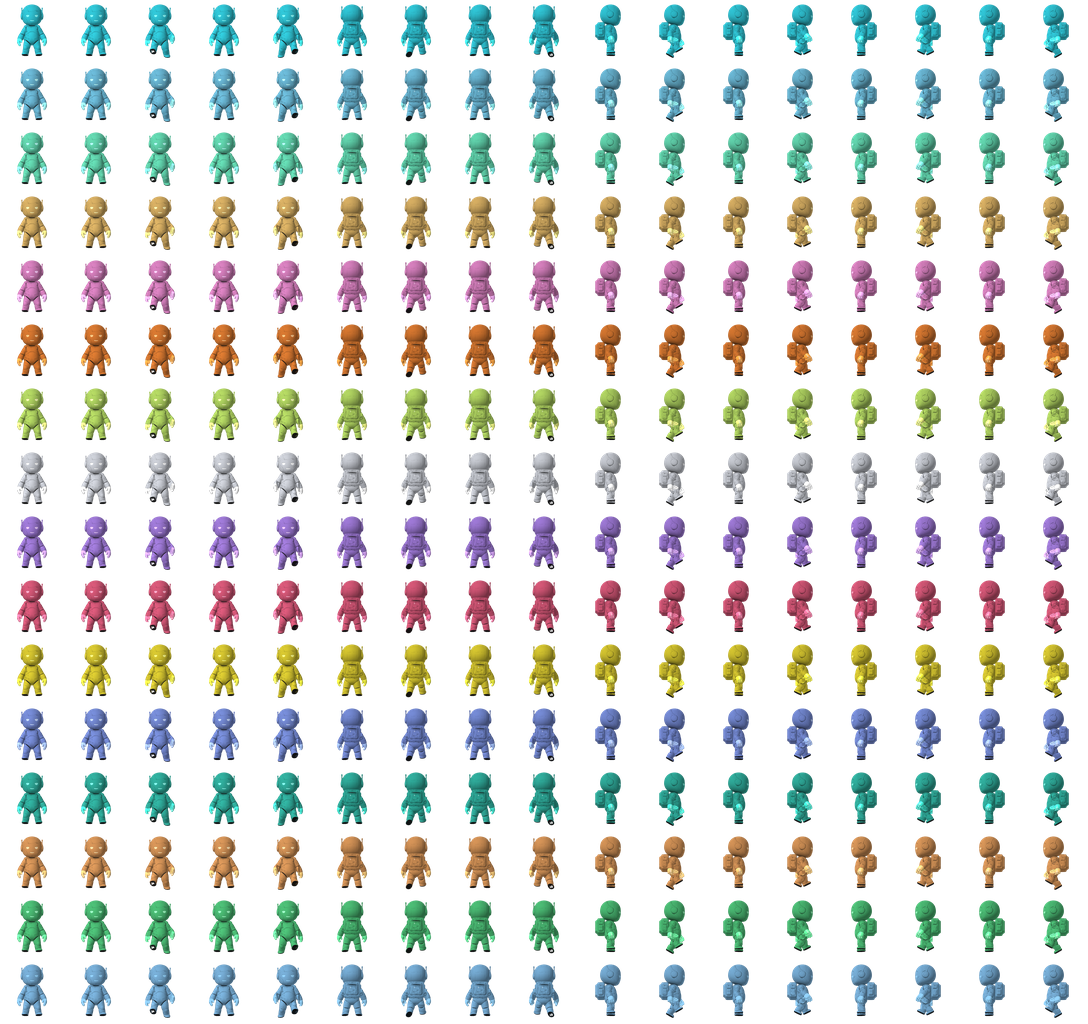
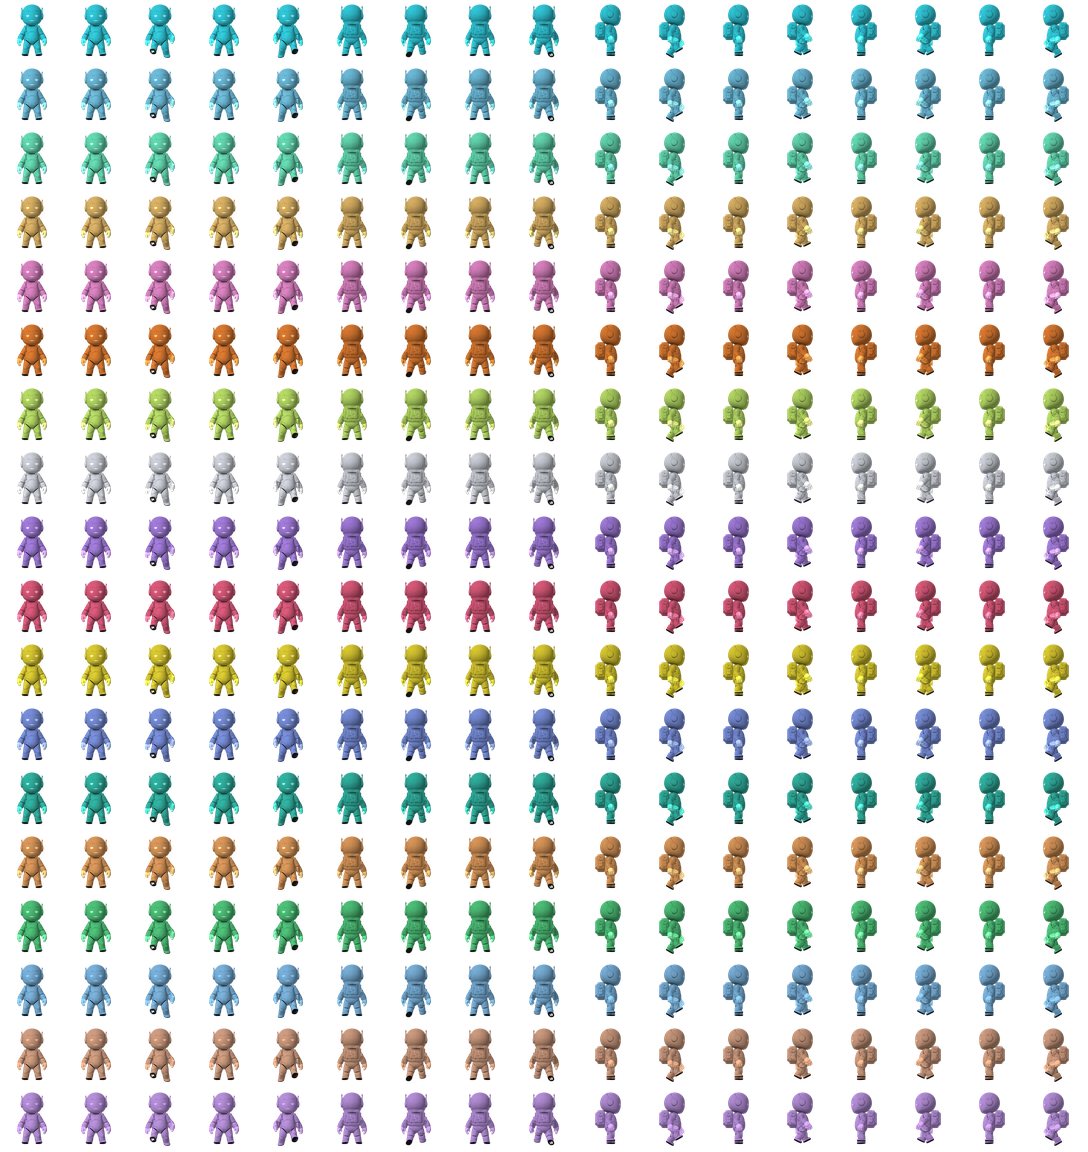
Travel agent Jet and event planner Cue (#49)
* Travel agent Jet: itineraries, budgets and packing lists from web research and the forecast; plans only, never books

Claude-Session: https://claude.ai/code/session_01ERVon7M1ZTWs7TfzkGVt6Z

* Event planner Cue: event plans, timelines, budgets, checklists and invitation drafts; plans only

Claude-Session: https://claude.ai/code/session_01ERVon7M1ZTWs7TfzkGVt6Z

---------

diff --git a/src/openjarvis/server/crew/engine.py b/src/openjarvis/server/crew/engine.py
@@ -93,6 +93,12 @@ ROLES: Dict[str, Dict[str, str]] = {
     "weather": {"name": "Gale", "model": "lookup", "about": "Weather: reads the current conditions and a short forecast for any place with get_weather (free Open-Meteo data, no key), and writes it up plainly: what to wear, whether an outdoor plan, a shoot or a launch event is a good idea. Reads only.",
                 "can": "Current weather and a 1 to 7 day forecast for any place, plain-language advice for outdoor plans",
                 "cannot": "Post, send or change anything; it only reads the forecast"},
+    "travel": {"name": "Jet", "model": "agent", "about": "Travel planning with Claude: itineraries, budgets, packing lists, what to see and eat, best times to go and how to get around. Researches places with web_search and checks the forecast for the dates with get_weather. Plans only: it cannot book or buy anything.",
+               "can": "Trip itineraries, budgets, packing lists, destination research, forecasts for the travel dates",
+               "cannot": "Book flights or hotels, spend money or contact anyone; booking is yours to do from its plan"},
+    "event": {"name": "Cue", "model": "agent", "about": "Event planning with Claude: launch parties, pop-ups, meetups, giveaways, livestreams and parties. Writes the plan (timeline, budget, guest list, checklist, run-of-show), researches venues and vendors with web_search, checks the forecast for the date with get_weather, and drafts invitation text. Plans only: it cannot send invites, book or pay.",
+               "can": "Event plans, budgets, timelines, checklists, run-of-show, venue and vendor research, forecast check, invitation drafts",
+               "cannot": "Send invitations, book venues, pay anyone or add anything to a calendar; you do those from its plan"},
     "reviewer": {"name": "Lens", "model": "agent", "about": "Checks the crew's work before it reaches Michael: reads every deliverable, fact-checks with web_search, and sends a task back once with request_changes when it is wrong or incomplete. Saves a short review.",
                  "can": "Read every deliverable, fact-check on the web, send work back once for fixes, write the review",
                  "cannot": "Change the work itself or approve anything for you"},
@@ -249,7 +255,7 @@ _REVIEW_TOOL = {"type": "function", "function": {
     "parameters": {"type": "object", "properties": {"task_number": {"type": "integer"}, "notes": {"type": "string"}}, "required": ["task_number", "notes"]}}}
 
 LIMITS = {"make_book": 6, "edit_image": 8, "inspect_image": 12, "repo_checks": 10, "web_search": 12, "generate_image": 16, "make_design_files": 10, "repo_commit": 10, "check_site": 20, "business_numbers": 3, "get_weather": 8}
-SEARCHERS = ("researcher", "reviewer", "marketer", "social", "support", "analyst", "qa", "finance")
+SEARCHERS = ("researcher", "reviewer", "marketer", "social", "support", "analyst", "qa", "finance", "travel", "event")
 IMAGERS = ("designer", "marketer", "social")
 READERS = ("support", "analyst", "finance")                # read-only platform access
 PUBLISHERS = ("social", "marketer")                       # Marnyx posts and email (each an approval); everything else read-only
@@ -366,8 +372,10 @@ def tools_for(role: str) -> List[Dict[str, Any]]:
         extra.append(_MARNYX_TOOL)
     if role in ("analyst", "finance"):
         extra.append(_NUMBERS_TOOL)
-    if role == "weather":
+    if role in ("weather", "travel", "event"):
         extra.append(_WEATHER_TOOL)
+    if role in ("travel", "event"):
+        extra.append(_SEARCH_TOOL)
     if role == "qa":
         extra += [_SITE_TOOL] + [t for t in _REPO_TOOLS if t["function"]["name"] in ("repo_files", "repo_read")]
     return _BASE_TOOLS + extra
@@ -1721,7 +1729,7 @@ class CrewEngine:
             return await self._repo(task, mission, name, args)
         if name == "check_site" and task["role"] == "qa":
             return await self._check_site(task, args), None
-        if name == "get_weather" and task["role"] == "weather":
+        if name == "get_weather" and task["role"] in ("weather", "travel", "event"):
             from openjarvis.server.crew import weather
 
             try:

diff --git a/src/openjarvis/server/crew/station.py b/src/openjarvis/server/crew/station.py
@@ -313,7 +313,7 @@ const TOKEN_KEY = 'aibussol_token';
 const token = () => localStorage.getItem(TOKEN_KEY) || '';
 const PROJECT_COLORS = { flipdeck:'#ff6d00', marnyx:'#b06cff', deadzone:'#ff3344', aibussol:'#00e5ff', 'new':'#ff4fb8' };
 const ROLE_COLORS = { lead:'#00e5ff', researcher:'#5ad1ff', builder:'#4dffc3', writer:'#ffc14d', designer:'#ff7ad9', operator:'#ff6d00', reviewer:'#c8ff4d', briefer:'#eef3ff', workbench:'#a970ff',
-  marketer:'#ff3d6e', social:'#ffe600', support:'#6b8cff', analyst:'#00c2a8', qa:'#ff9a3d', finance:'#2bd96b', weather:'#7fc8ff' };
+  marketer:'#ff3d6e', social:'#ffe600', support:'#6b8cff', analyst:'#00c2a8', qa:'#ff9a3d', finance:'#2bd96b', weather:'#7fc8ff', travel:'#ffb38a', event:'#d9a0ff' };
 const STATUS_COLORS = { queued:'#2a5060', running:'#00e5ff', waiting:'#ff6d00', done:'#00ff88', failed:'#ff3344', cancelled:'#2a3a44' };
 let S = null, selected = 'hub', lastDraw = 0, pollTimer = null;
 
@@ -365,6 +365,8 @@ const LAND_CREW = [
   ['qa', 'Probe', 'QA', 'Tests your live sites and writes bug reports'],
   ['finance', 'Tally', 'Finance', 'Budgets, cash flow, pricing and margin math'],
   ['weather', 'Gale', 'Weather', 'The forecast for any place, in plain words'],
+  ['travel', 'Jet', 'Travel', 'Trip plans, budgets and packing lists'],
+  ['event', 'Cue', 'Events', 'Event plans, timelines, budgets and invitation drafts'],
 ];
 let landed = false;
 async function landing() {
@@ -1144,9 +1146,9 @@ const bots = new Map();
 const helixImg = new Image(); let helixReady = false;
 helixImg.onload = () => { helixReady = true; }; helixImg.src = '/crew/helix.jpg';
 // the crew: Michael's robot model, rendered per role (front, facing right, facing left) into one sheet: crew/assets/bots.png
-const BOT_VER = '614c365d';   // changes whenever bots.png changes, so browsers never mix an old sheet with new code
+const BOT_VER = '43f50d8b';   // changes whenever bots.png changes, so browsers never mix an old sheet with new code
 const BOT_ROWS = ['lead', 'researcher', 'builder', 'writer', 'designer', 'operator', 'reviewer', 'briefer', 'workbench',
-                  'marketer', 'social', 'support', 'analyst', 'qa', 'finance', 'weather'], BOT_CELL = 64;
+                  'marketer', 'social', 'support', 'analyst', 'qa', 'finance', 'weather', 'travel', 'event'], BOT_CELL = 64;
 // sheet columns: 0 standing (front), then 4 walk frames each for front, back, right, left
 const BOT_DIRS = { front: 0, back: 1, right: 2, left: 3 };
 function dirOf(dx, dy, prev) { if (Math.abs(dx) < 0.01 && Math.abs(dy) < 0.01) return prev || 'front'; return Math.abs(dx) >= Math.abs(dy) * 0.8 ? (dx > 0 ? 'right' : 'left') : (dy > 0 ? 'front' : 'back'); }

diff --git a/tests/server/test_crew_weather.py b/tests/server/test_crew_weather.py
@@ -75,3 +75,33 @@ def test_the_engine_runs_get_weather_for_gale_only_and_reports_a_bad_place_in_wo
     assert "could not find a place" in out
     other, _ = run(w.engine._tool(dict(task, role="writer"), mission, "get_weather", {"place": "Los Angeles"}))
     assert "Weather for" not in other
+
+
+def test_jet_plans_trips_with_search_and_the_forecast_and_cannot_book_or_spend():
+    names = {t["function"]["name"] for t in eng_mod.tools_for("travel")}
+    assert eng_mod.ROLES["travel"]["name"] == "Jet" and eng_mod.ROLES["travel"]["model"] == "agent"
+    assert {"web_search", "get_weather", "save_output", "finish"} <= names
+    assert not names & {"use_connection", "marnyx_post", "repo_commit", "request_merge", "generate_image", "check_site", "make_book"}
+
+
+def test_the_engine_gives_jet_the_forecast_for_its_travel_dates():
+    from tests.server.test_crew import two_task_plan, world
+
+    w = world(two_task_plan(), {})
+    w.engine.client_factory = _factory()[0]
+    task = {"user_id": "u", "mission_id": "m", "id": "t", "role": "travel", "_transcript": []}
+    out, _ = run(w.engine._tool(task, {"id": "m"}, "get_weather", {"place": "Los Angeles, CA", "days": 2}))
+    assert "Weather for Los Angeles" in out
+
+
+def test_cue_plans_events_with_search_and_the_forecast_and_cannot_send_book_or_pay():
+    from tests.server.test_crew import two_task_plan, world
+
+    names = {t["function"]["name"] for t in eng_mod.tools_for("event")}
+    assert eng_mod.ROLES["event"]["name"] == "Cue" and eng_mod.ROLES["event"]["model"] == "agent"
+    assert {"web_search", "get_weather", "save_output", "finish"} <= names
+    assert not names & {"use_connection", "marnyx_post", "repo_commit", "request_merge", "generate_image", "check_site", "make_book"}
+    w = world(two_task_plan(), {})
+    w.engine.client_factory = _factory()[0]
+    out, _ = run(w.engine._tool({"user_id": "u", "mission_id": "m", "id": "t", "role": "event", "_transcript": []}, {"id": "m"}, "get_weather", {"place": "Los Angeles, CA"}))
+    assert "Weather for Los Angeles" in out
